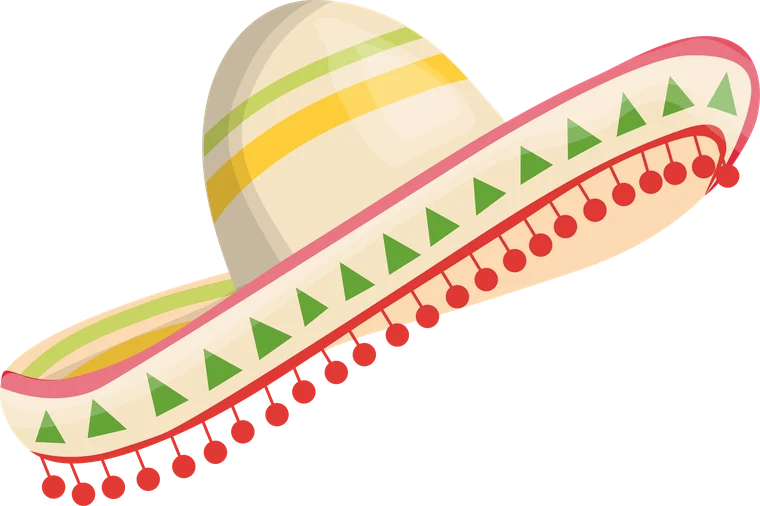
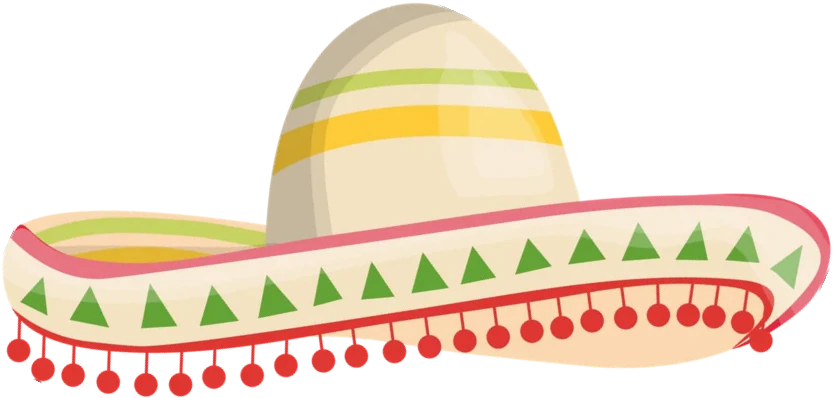
Level the sombrero artwork and give each scratch card its own brand colors

diff --git a/index.html b/index.html
@@ -113,7 +113,7 @@ section{position:relative;isolation:isolate}
 .scratch .lbl{font-family:var(--f-head);font-size:28px;color:var(--paper);text-shadow:0 3px 0 var(--indigo);display:flex;gap:10px;align-items:baseline}
 .scratch .lbl small{font-family:var(--f-body);font-weight:700;font-size:13px;color:var(--indigo);background:var(--sun);border-radius:999px;padding:2px 10px;text-shadow:none;opacity:0;transition:opacity .3s}
 .scratch.done .lbl small{opacity:1}
-.hat{position:relative;width:min(100%,360px);aspect-ratio:760/506}
+.hat{position:relative;width:min(100%,360px);aspect-ratio:834/398}
 .hat .under{position:absolute;inset:0;background:radial-gradient(ellipse at 50% 66%,var(--paper) 0 40%,var(--sun) 70%);
   -webkit-mask:url(sombrero.webp) center/100% 100% no-repeat;mask:url(sombrero.webp) center/100% 100% no-repeat}
 .hat .val{position:absolute;left:8%;right:8%;top:56%;transform:translateY(-50%);text-align:center;font-family:var(--f-head);
@@ -559,6 +559,26 @@ if(hasG&&!reduce){
 
 /* ================= sombrero scratch cards ================= */
 var hatImg=new Image(); hatImg.src="sombrero.webp";
+/* each card gets its own brand-colored sombrero: [trim+pompoms, triangles, crown stripe] */
+var HAT_COLORS=[["#E2392D","#3BA449","#FFC83D"],["#E6336F","#1FB5C8","#F28C1E"],["#2F3B6E","#F28C1E","#E6336F"]];
+function hexHsl(h){ var r=parseInt(h.slice(1,3),16)/255,g=parseInt(h.slice(3,5),16)/255,b=parseInt(h.slice(5,7),16)/255; return rgbHsl(r,g,b); }
+function rgbHsl(r,g,b){ var mx=Math.max(r,g,b),mn=Math.min(r,g,b),l=(mx+mn)/2,d=mx-mn,h=0,s=0;
+  if(d){ s=d/(1-Math.abs(2*l-1)); h=mx===r?((g-b)/d)%6:mx===g?(b-r)/d+2:(r-g)/d+4; h*=60; if(h<0) h+=360; } return [h,s,l]; }
+function hslRgb(h,s,l){ var c=(1-Math.abs(2*l-1))*s,x=c*(1-Math.abs((h/60)%2-1)),m=l-c/2,r=0,g=0,b=0;
+  if(h<60){r=c;g=x}else if(h<120){r=x;g=c}else if(h<180){g=c;b=x}else if(h<240){g=x;b=c}else if(h<300){r=x;b=c}else{r=c;b=x}
+  return [(r+m)*255,(g+m)*255,(b+m)*255]; }
+function tintHat(cols){
+  var cv=document.createElement("canvas"); cv.width=hatImg.naturalWidth; cv.height=hatImg.naturalHeight;
+  var c=cv.getContext("2d"); c.drawImage(hatImg,0,0); var im=c.getImageData(0,0,cv.width,cv.height), d=im.data;
+  var T=cols.map(hexHsl), REF=[.53,.42,.6];
+  for(var i=0;i<d.length;i+=4){ if(!d[i+3]) continue;
+    var r=d[i]/255,g=d[i+1]/255,b=d[i+2]/255; if(Math.max(r,g,b)-Math.min(r,g,b)<.3) continue; /* keep the cream body */
+    var p=rgbHsl(r,g,b);
+    var k=(p[0]<22||p[0]>320)?0:(p[0]>=65&&p[0]<170)?1:(p[0]>=22&&p[0]<65)?2:-1; if(k<0) continue;
+    var t=T[k], l=Math.min(.95,Math.max(.05,t[2]+(p[2]-REF[k])*.8)), o=hslRgb(t[0],t[1],l);
+    d[i]=o[0]; d[i+1]=o[1]; d[i+2]=o[2]; }
+  c.putImageData(im,0,0); return cv;
+}
 var revealed=0;
 function finishCard(card,quiet){
   if(card.classList.contains("done")) return; card.classList.add("done"); revealed++;
@@ -566,13 +586,14 @@ function finishCard(card,quiet){
   if(hasG&&!reduce) gsap.fromTo(card.querySelector(".val"),{scale:.7},{scale:1,duration:.6,ease:"back.out(3)"});
   if(revealed>=3){ $("#won").hidden=false; if(hasG&&!reduce) gsap.from("#won",{scale:.7,autoAlpha:0,duration:.6,ease:"back.out(2.4)"}); }
 }
-function setupCard(card){
-  var cv=card.querySelector("canvas"), c=cv.getContext("2d",{willReadFrequently:true}), down=false, last=null, moves=0, base=0;
+function setupCard(card,idx){
+  var cv=card.querySelector("canvas"), c=cv.getContext("2d",{willReadFrequently:true}), down=false, last=null, moves=0, base=0, art=null;
   function paint(){
+    if(!art && hatImg.naturalWidth){ try{ art=tintHat(HAT_COLORS[idx%HAT_COLORS.length]); }catch(_){ art=hatImg; } }
     var r=cv.getBoundingClientRect(), w=Math.max(1,r.width), h=Math.max(1,r.height);
     cv.width=Math.round(w*dpr); cv.height=Math.round(h*dpr); c.setTransform(dpr,0,0,dpr,0,0);
     c.globalCompositeOperation="source-over"; c.clearRect(0,0,w,h);
-    if(hatImg.complete && hatImg.naturalWidth) c.drawImage(hatImg,0,0,w,h);
+    if(art) c.drawImage(art,0,0,w,h);
     base=count();
   }
   function count(){ var d=c.getImageData(0,0,cv.width,cv.height).data, n=0; for(var i=3;i<d.length;i+=4*20){ if(d[i]>60) n++; } return n; }
